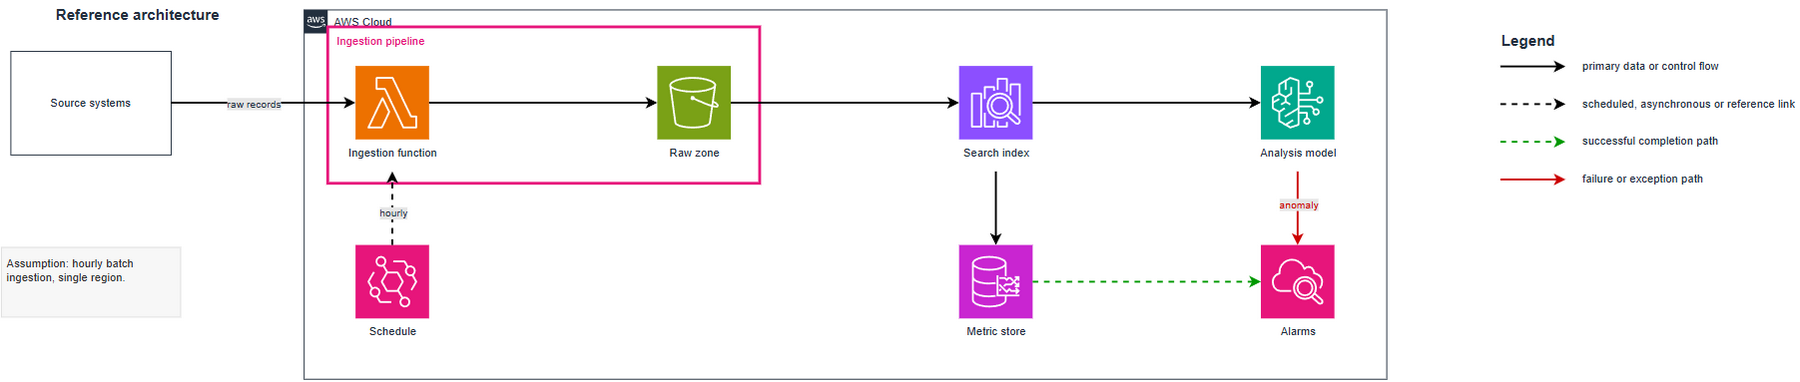
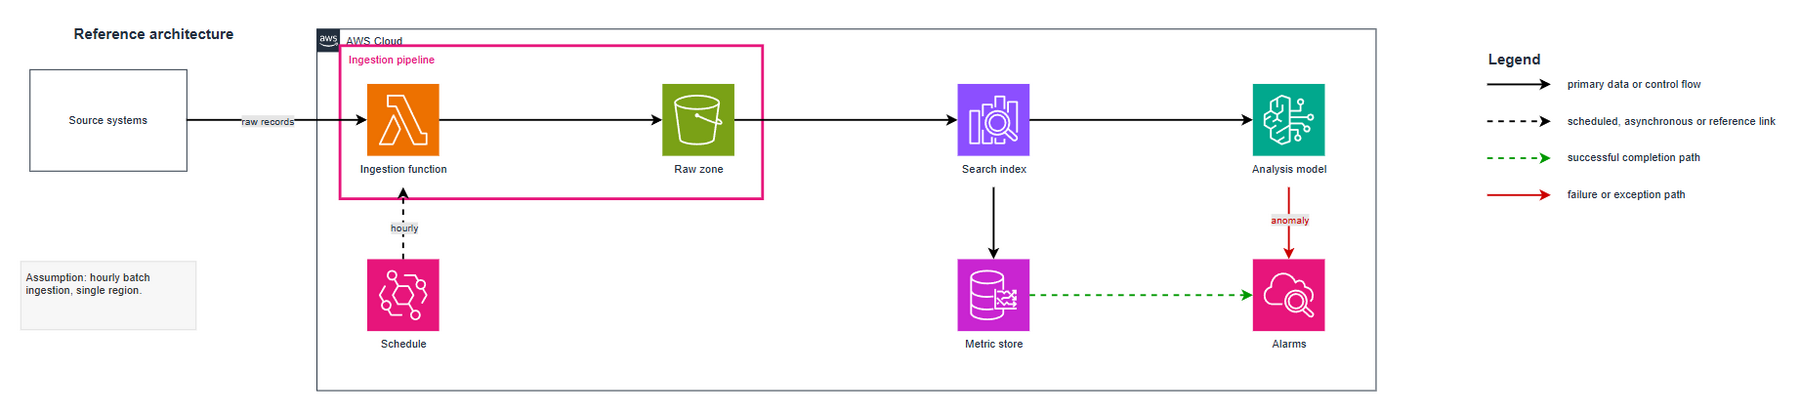
Leave a margin round every Draw.io render (#249)
render-drawio.mjs exported with no border, and Draw.io Desktop's defaults to
0, so every PNG was cropped to the drawing's bounds. Whatever sat rightmost or
lowest touched the image edge, usually the legend, which read as cut off. The
committed template PNGs had 2 to 9px of margin.

The renderer now passes -b 20 by default. --padding N changes it, named as
Excalidraw's renderer names its own; --padding 0 sends Desktop the arguments it
got before, and reproduces the old starter PNG byte for byte. The PowerShell
adapter takes -Padding.

The every-mark Desktop test lays tiles out at exact coordinates, so it renders
with --padding 0. A new smoke test measures the margin on a real export.

The three template PNGs are re-rendered at their existing widths. The contact
sheets are Chrome screenshots of HTML, not Desktop exports, so they did not
change.

diff --git a/docs/cli.md b/docs/cli.md
@@ -364,8 +364,10 @@ arkitect drawio render docs/arch.drawio --all --drawio-exe /path/to/drawio
 ```
 
 Options: `<file>` is required; `--page-index N` is 0-based (default `0`),
-`--all` selects every `<diagram>`, `--width` defaults to `2200`, `--out-dir`
-to `.`, and `--format` to `png`. Output names are `<base>.p<N>.<format>`.
+`--all` selects every `<diagram>`, `--width` defaults to `2200`, `--padding` to
+`20` (Desktop's `-b`; `0` crops flush to the drawing, as Desktop does alone),
+`--out-dir` to `.`, and `--format` to `png`, or `pdf` for a PDF. Output names
+are `<base>.p<N>.<format>`.
 The portable entry point is `skills/arkitect-drawio/scripts/render-drawio.mjs`.
 The `.ps1` invocation above is the Windows original and remains unchanged.
 

diff --git a/CHANGELOG.md b/CHANGELOG.md
@@ -13,6 +13,12 @@ separate file, no naming scheme, no required format beyond that.
 
 ### Fixed
 
+- Draw.io renders leave a 20px margin round the drawing. Desktop's border
+  defaults to 0, so every PNG was cropped flush and the legend or the last
+  caption touched its edge. `--padding N` changes it and `0` restores the old
+  crop exactly; the PowerShell adapter takes `-Padding`. The three template
+  PNGs are re-rendered; the contact sheets are Chrome screenshots and did not
+  change (#249).
 - A key at the top of a spec that neither builder reads is named under
   `unknownFields`, with a hint for `edge`, `node` and `boundary`, and in
   Excalidraw for `pages` and `context`. A misspelled `edges` used to drop every

diff --git a/skills/arkitect-drawio/references/rendering.md b/skills/arkitect-drawio/references/rendering.md
@@ -18,6 +18,8 @@ discovery with `--drawio-exe` or `DRAWIO_EXE`. Outputs are
 is a thin adapter over this renderer, so it inherits the backup, the restore and
 the rule that only a fresh non-empty file counts as a render:
 `./scripts/render-drawio.ps1 -Path "path/to/diagram.drawio" -OutDir .analysis/renders`.
+Every export leaves a 20px margin round the drawing; `--padding N` changes it,
+and `0` crops flush, as Desktop does on its own (`-Padding` in the `.ps1`).
 A failed export exits non-zero and never reports a page as rendered, whatever
 was at the output path before (#157). `-DrawioExe` now defaults to empty, so
 discovery works as it does here; pass it to pin a build.

diff --git a/docs/testing.md b/docs/testing.md
@@ -10,7 +10,7 @@ node tests/run-tests.mjs toolkit
 Offline, deterministic, no network, no Docker, no dependencies. About 20
 seconds on a laptop, up to a minute on a CI runner.
 
-On a fresh clone expect `353 passed, 0 failed, 7 skipped`. The skips are
+On a fresh clone expect `354 passed, 0 failed, 7 skipped`. The skips are
 the tests that need reference diagrams of your own — a clone has none. That is
 the correct result, not a problem. Point them at your files with
 `.analysis/sources.local.json`
